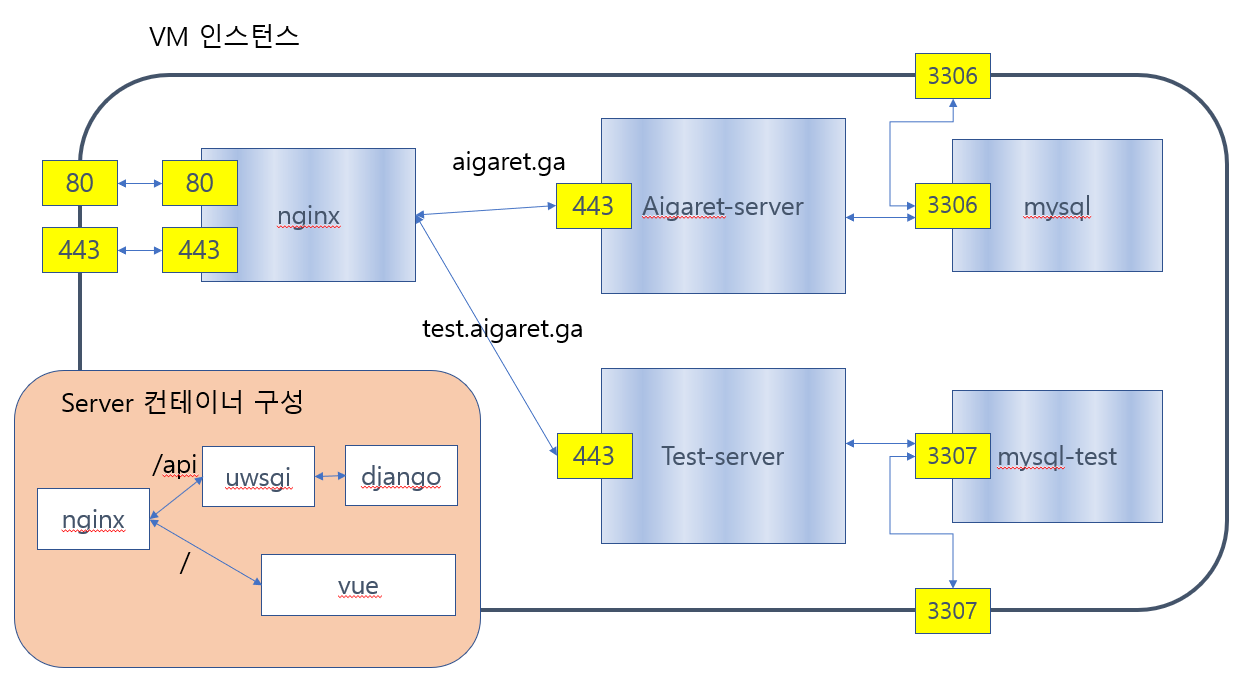
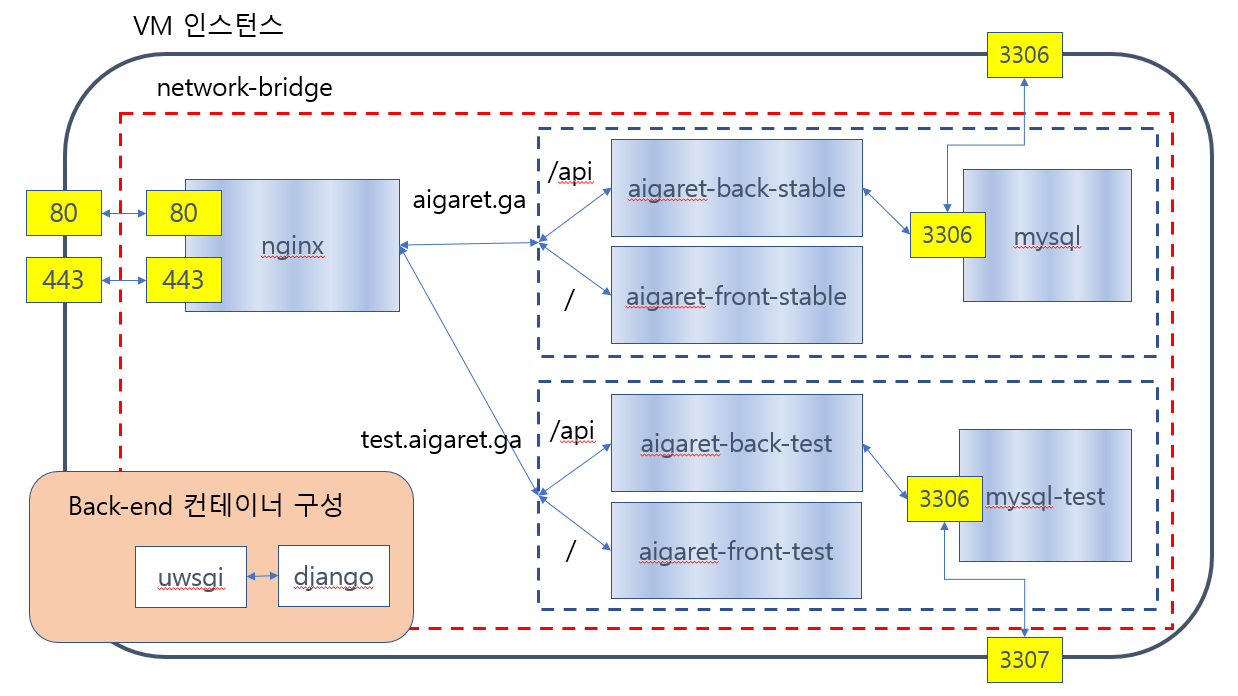
aigaret 구조 이미지 변경

diff --git a/_posts/Study/Docker/2020-12-20-우분투-Docker-nginx-컨테이너-구동.md b/_posts/Study/Docker/2020-12-20-우분투-Docker-nginx-컨테이너-구동.md
@@ -36,7 +36,7 @@ modified_at: 2020-12-20T21:12:00+09:00
 -----------------------
 
 aigaret 프로젝트는 다음과 같이 구성되어 있다.
-![image-20201221155122936](../../assets/img/2020-12-20-%EC%9A%B0%EB%B6%84%ED%88%AC-Docker-nginx-%EC%BB%A8%ED%85%8C%EC%9D%B4%EB%84%88-%EA%B5%AC%EB%8F%99/aigaret-구조.png)
+![image-20201222151116109](post_img/2020-12-20-%EC%9A%B0%EB%B6%84%ED%88%AC-Docker-nginx-%EC%BB%A8%ED%85%8C%EC%9D%B4%EB%84%88-%EA%B5%AC%EB%8F%99/image-20201222151116109.png)
 
 이 중에서 가장 먼저 nginx컨테이너를 구동해보자.
 

diff --git a/side-menu/study/Coding Test.md b/side-menu/study/Coding Test.md
@@ -1,7 +1,7 @@
 ---
 layout: post-list
 title: Coding Test
-sidebar_sort_order: 2
+sidebar_sort_order: 99
 is_sub_menu: true
 
 main_category: Study
